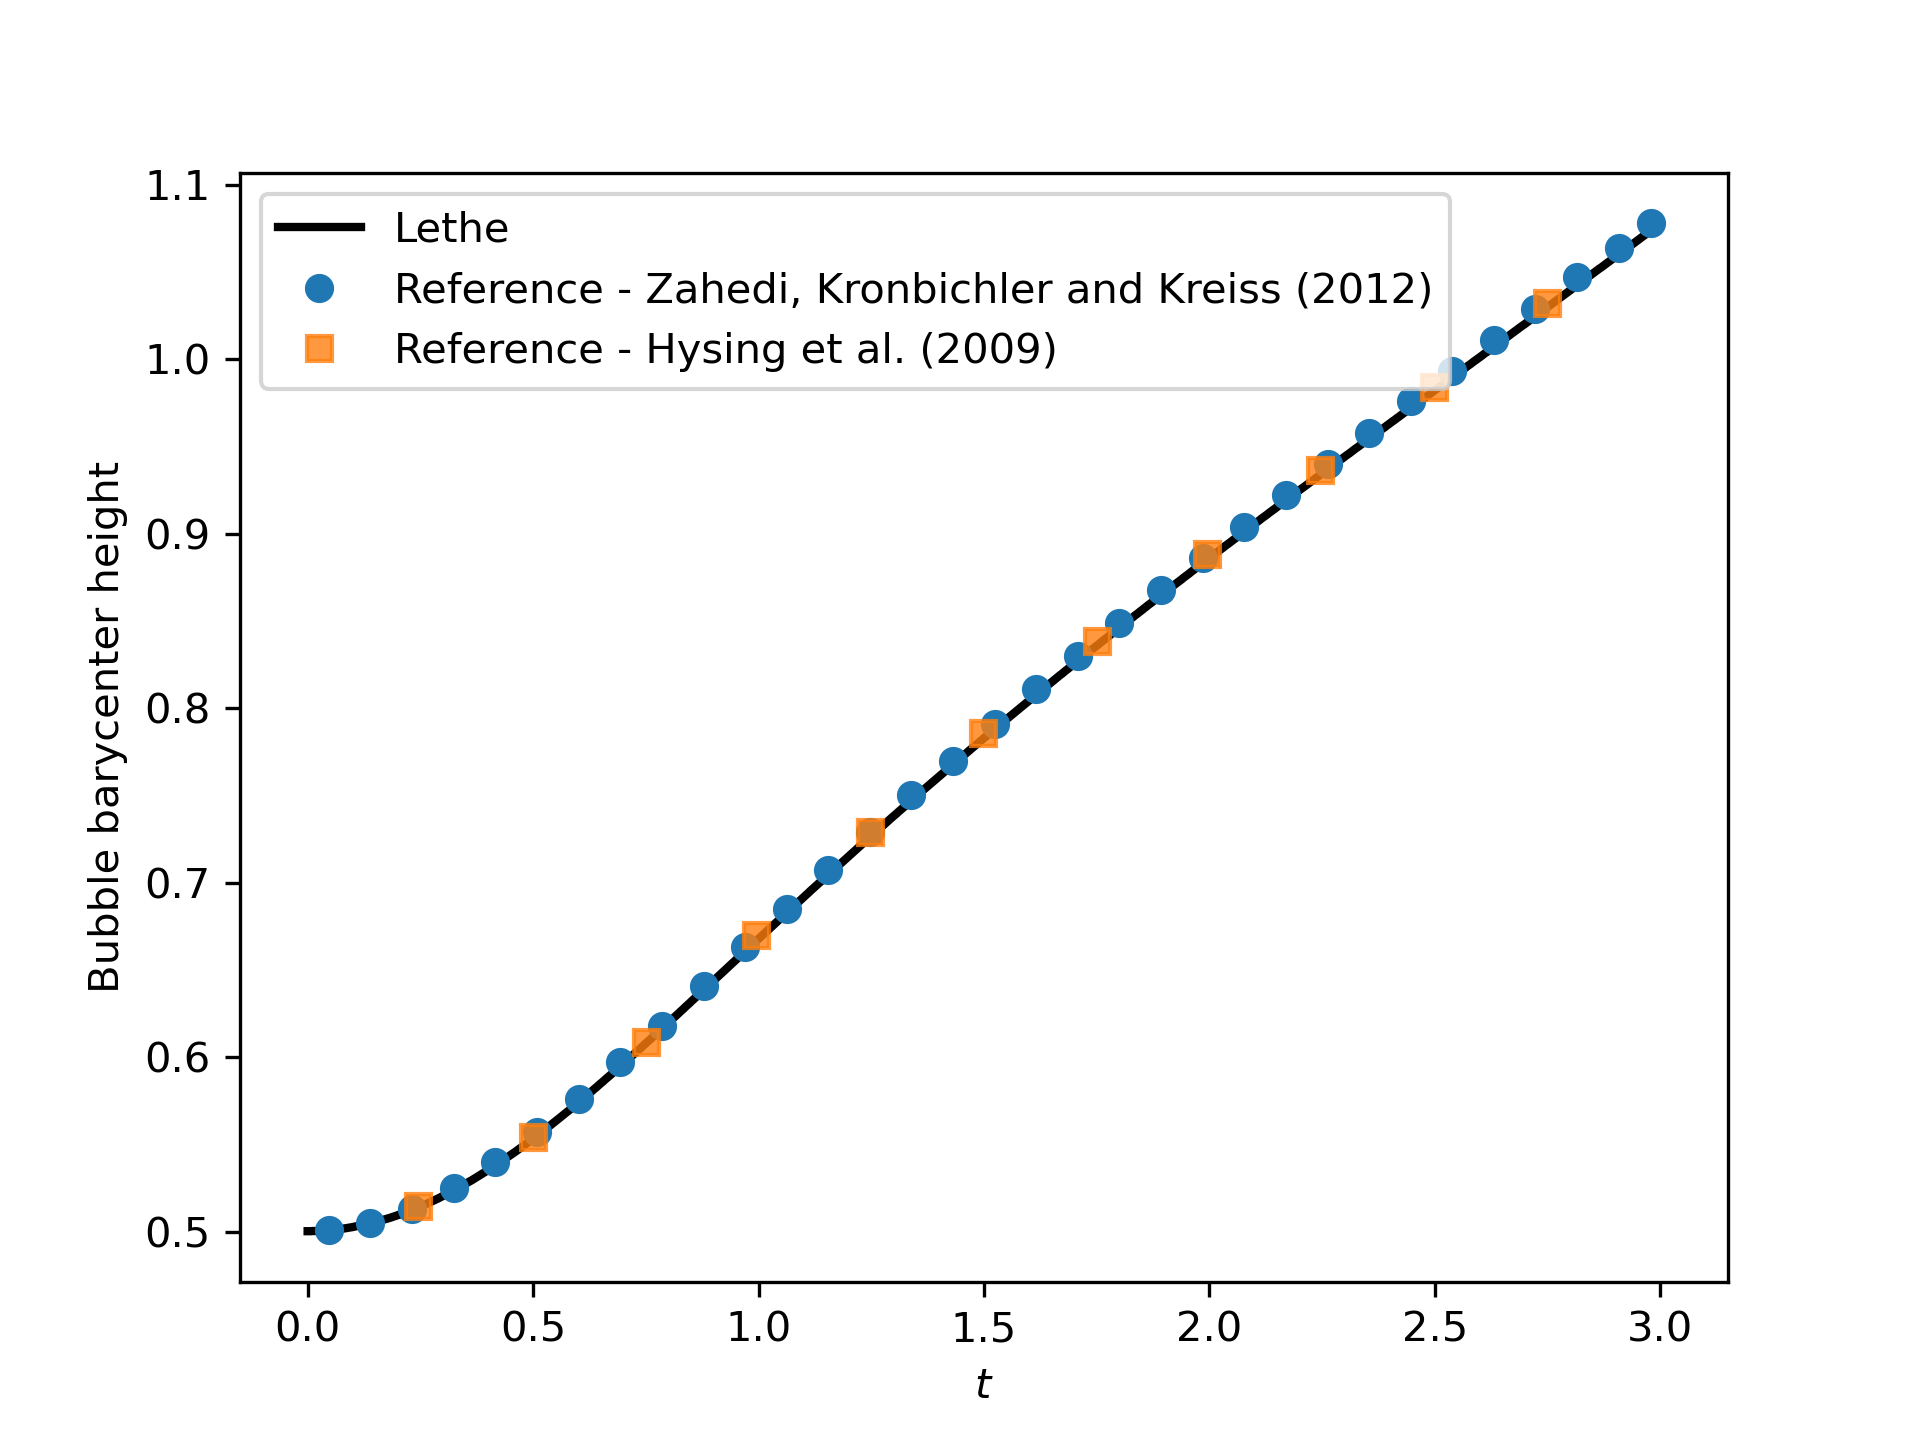
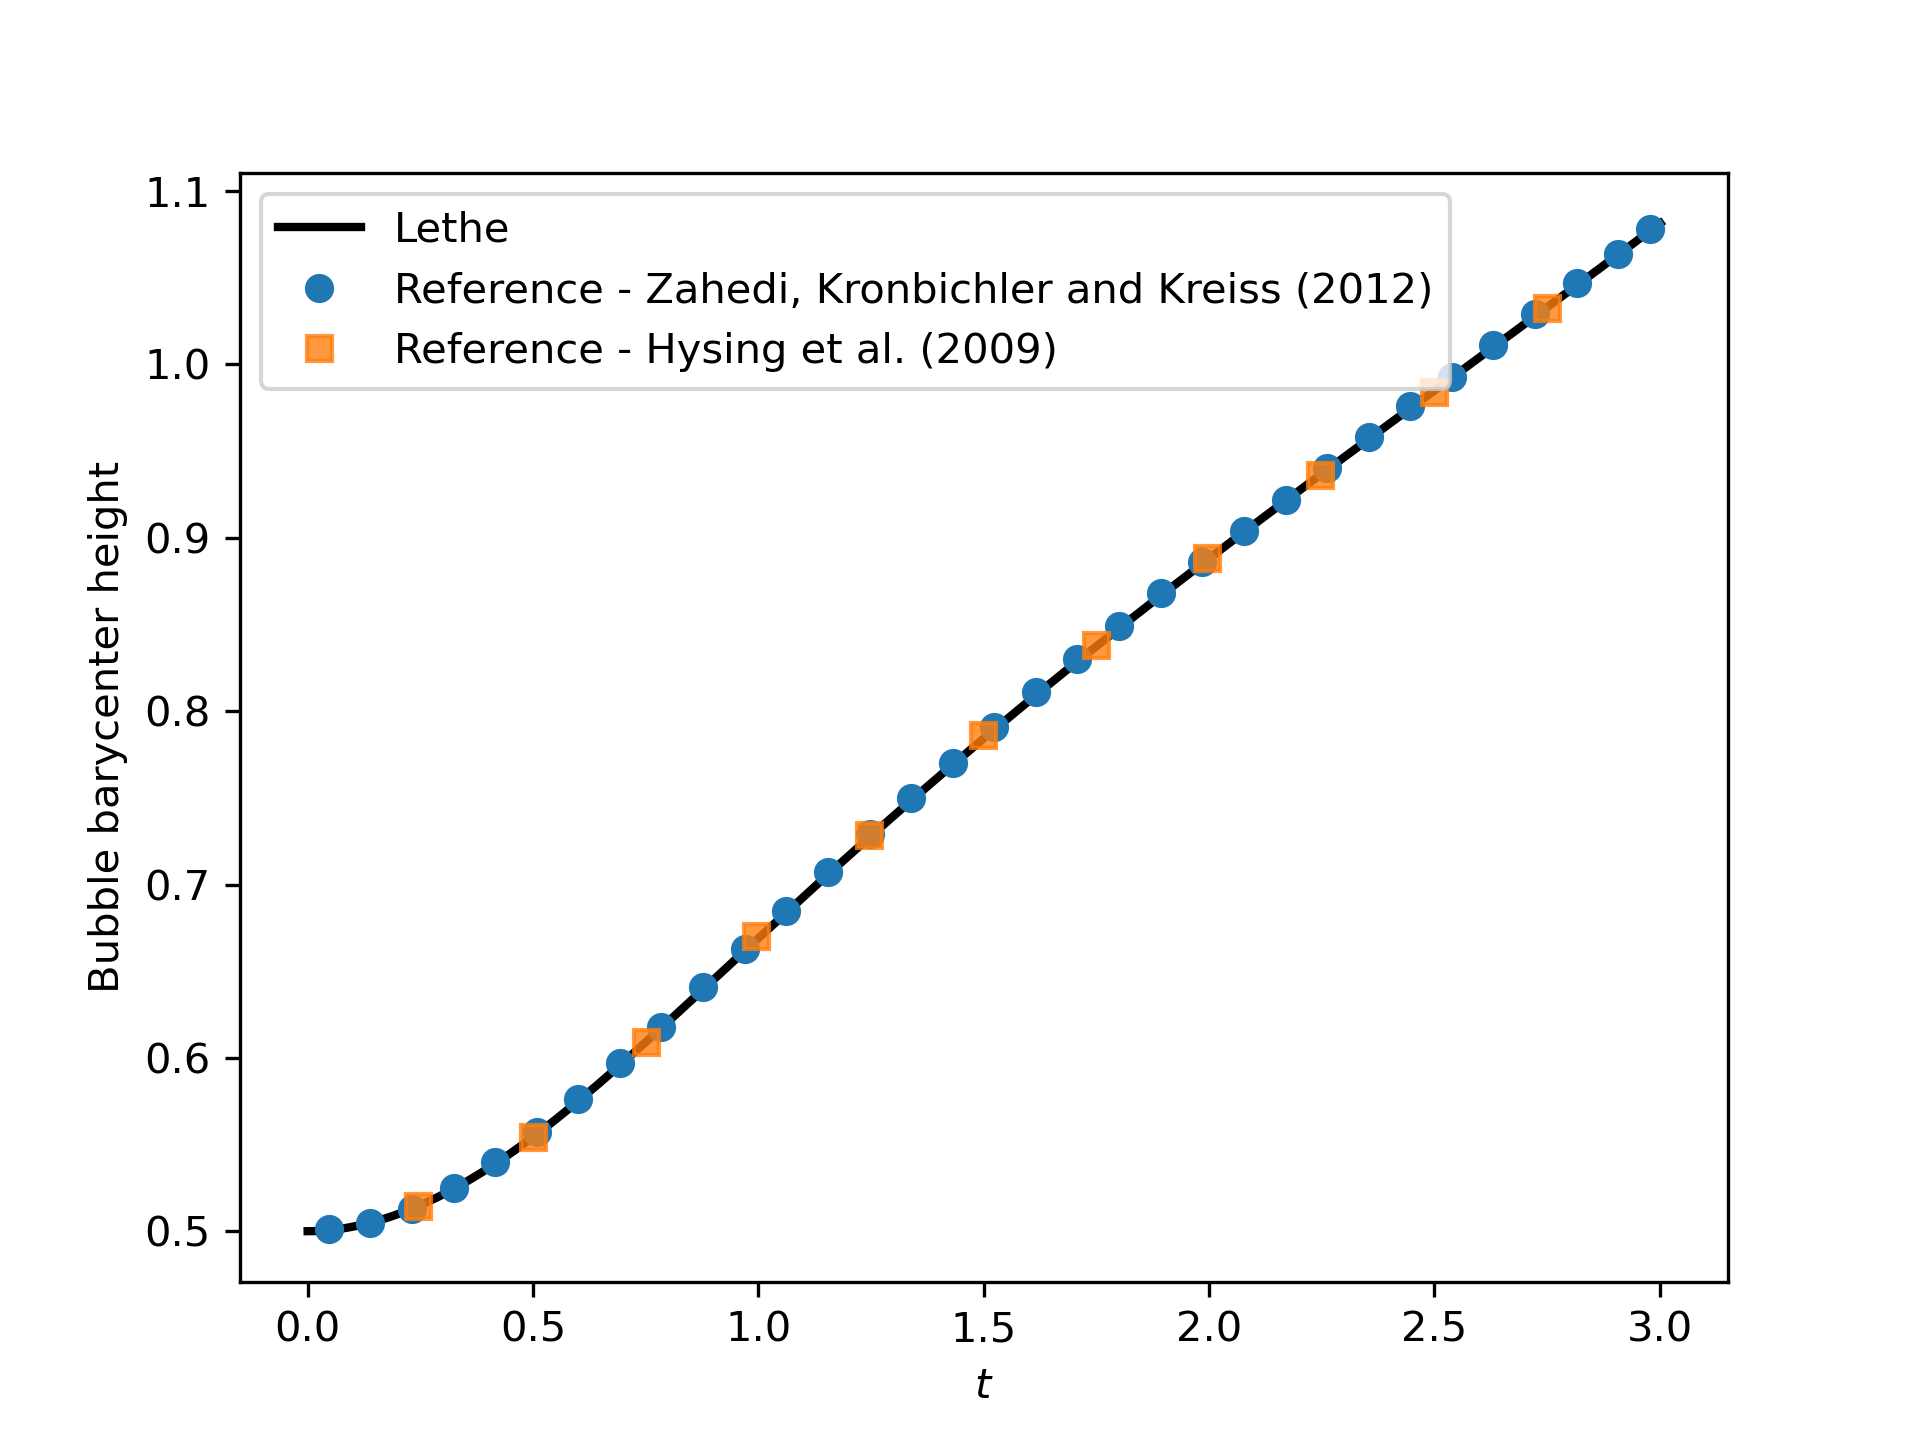
Add feature for last output and fix example results (#1471)
Description
In transient simulation, the last result of a transient simulation would not be written as VTU file if it did not correctly fall onto the output frequency.

Solution
This PR fixes this by always writing the last VTU output when we are doing a transient simulation with a frequency of output.
I used to opportunity to also fix the documentation for the rising bubble and add the results we are obtaining with Lethe with this new feature. Now the comparison of the bubble with the reference result is just absolutely perfect meaning we are good.

Testing
No tests should be changed

diff --git a/source/core/simulation_control.cc b/source/core/simulation_control.cc
@@ -304,16 +304,19 @@ bool
 SimulationControlTransient::is_output_iteration()
 {
   // If iteration control the only options are to not print or at certain
-  // frequency of iterations for the time interval given
+  // frequency of iterations for the time interval given. In this mode, we also
+  // always output the last iteration in the simulation.
   if (output_control == Parameters::SimulationControl::OutputControl::iteration)
     {
       if (output_iteration_frequency == 0)
         return false;
       else
         {
-          // Check if the current step number matches the output frequency and
-          // the time interval
-          return (get_step_number() % output_iteration_frequency == 0 &&
+          // Check if the current step number matches the following condition:
+          // (The step number matches the output frequency OR is the last
+          // tiem-step) AND the current time is within the output time interval
+          return ((get_step_number() % output_iteration_frequency == 0 ||
+                   is_at_end()) &&
                   get_current_time() >= output_time_interval[0] &&
                   get_current_time() <= output_time_interval[1]);
         }

diff --git a/CHANGELOG.md b/CHANGELOG.md
@@ -8,6 +8,11 @@ The format is based on [Keep a Changelog](http://keepachangelog.com/).
 ### Added
 
 - MINOR Addition of the explicit template instantiations for the PropertiesIndex of multiphysic DEM simulations. They are added to all files where there were already DEMProperties template instantiations. [#1469](https://github.com/chaos-polymtl/lethe/pull/1469)
+## [Master] - 2025-03-25
+
+### Added
+
+- MINOR Changed the simulation control to ensure that for transient simulation the last time-step is always written to a vtu file. Used this opportunity to improve the results for the rising bubble since the contour we were using to compare to the reference solution was not always the last output. Finally, changed the rising bubble example to use the BDF2 time integration instead of BDF1 [#1471](https://github.com/chaos-polymtl/lethe/pull/1471).
 
 ## [Master] - 2025-03-21
 

diff --git a/doc/source/examples/multiphysics/rising-bubble/rising-bubble.rst b/doc/source/examples/multiphysics/rising-bubble/rising-bubble.rst
@@ -12,7 +12,7 @@ Features
 - Solver: ``lethe-fluid`` 
 - Two phase flow handled by the Volume of fluids (VOF) approach with phase filtering, phase sharpening, and surface tension force
 - Calculation of filtered phase fraction gradient and curvature fields
-- Unsteady problem handled by an adaptive BDF1 time-stepping scheme 
+- Unsteady problem handled by an adaptive BDF2 time-stepping scheme 
 - Post-processing of a fluid barycentric coordinate and velocity
 
 
@@ -61,7 +61,7 @@ Time integration is handled by a 1st order backward differentiation scheme (``bd
 .. code-block:: text
 
     subsection simulation control
-      set method           = bdf1
+      set method           = bdf2
       set time end         = 3
       set time step        = 0.001
       set adapt            = true

diff --git a/doc/source/parameters/cfd/simulation_control.rst b/doc/source/parameters/cfd/simulation_control.rst
@@ -89,7 +89,7 @@ This subsection is the most important in a simulation and therefore, the most co
     set output times = -1
   
     # Output time interval
-    set output time interval = 1, 1.7e308
+    set output time interval = 0, 1.7e308
   
     # Maximum number of vtu output files
     set group files = 1
